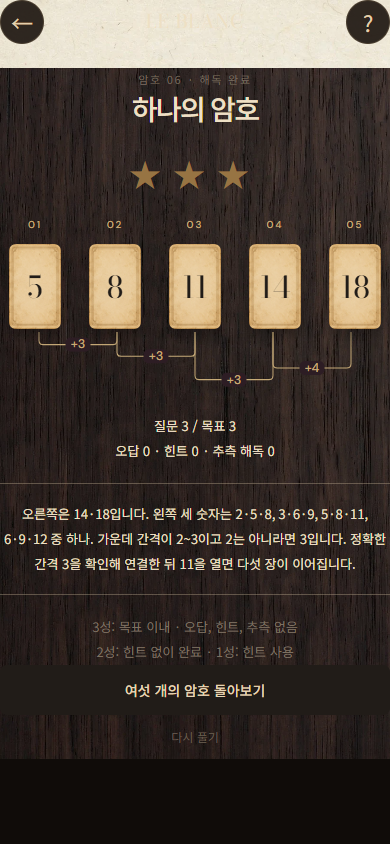
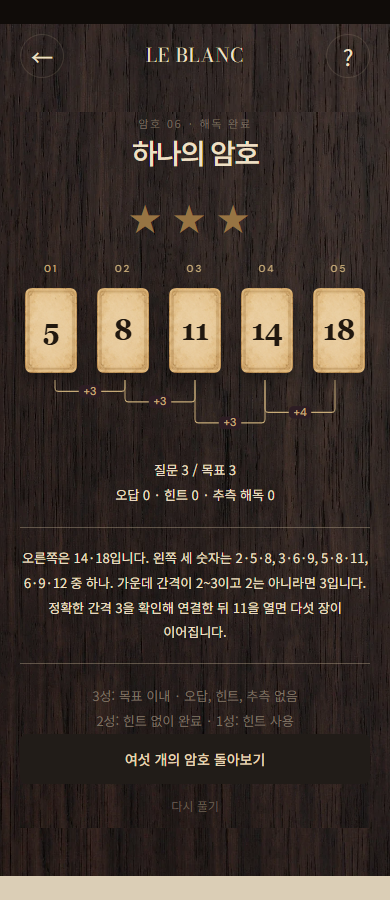
Match result card numerals to in-game print layout

diff --git a/src/components/TileRow.tsx b/src/components/TileRow.tsx
@@ -1,3 +1,4 @@
+import {CARD_FACE,needsOrientationMark} from '../cardFace';
 import { motion } from 'motion/react';
 import { Eye } from 'lucide-react';
 import type { GapConnection, RevelationEvent, VisibleTile } from '../engine/types';
@@ -10,7 +11,7 @@ export default function TileRow({tiles,own=false,selected=[],onSelect,enabled=()
     <span className="tile-index">{String(i+1).padStart(2,'0')}</span>
     <motion.button className={`tile ${t.value===null?'secret':'face'} ${selected.includes(i)?'selected':''} ${own&&t.revealed?'exposed':''}`} aria-label={`${i+1}번 타일, ${t.value===null?'비공개':t.value}${own?(t.revealed?', 상대에게 공개됨':t.value===null?', 가려짐':', 나만 볼 수 있음'):''}`} aria-pressed={onSelect?selected.includes(i):undefined} disabled={!onSelect||!enabled(i)} onClick={()=>onSelect?.(i)} whileTap={onSelect?{scale:.94}:undefined}>
       <motion.span key={`${t.value}-${revealIndex}`} className="tile-inner" initial={revealIndex>=0&&!reduced?{rotateY:180}:false} animate={{rotateY:0}} transition={{duration:.48,delay:revealIndex>=0?revealIndex*.34:0}}>
-       <span className="tile-front">{t.value===null?<Sigil/>:<><span className="tile-corner">{t.value}</span><span className="tile-number">{t.value}</span><span className="tile-flourish">◆</span></>}</span>
+       <span className="tile-front">{t.value===null?<Sigil/>:<><span className="tile-corner">{t.value}</span><svg className="tile-number card-face-number" viewBox={`0 0 ${CARD_FACE.width} ${CARD_FACE.height}`} preserveAspectRatio="none" aria-hidden="true"><text x={CARD_FACE.x} y={CARD_FACE.baseline} textAnchor="middle" style={{fontFamily:CARD_FACE.family,fontWeight:CARD_FACE.weight,fontSize:CARD_FACE.size,fill:CARD_FACE.ink}}>{t.value}</text>{needsOrientationMark(t.value)?<rect {...CARD_FACE.marker} fill={CARD_FACE.ink}/>:null}</svg><span className="tile-flourish">◆</span></>}</span>
        <span className="tile-back"><Sigil/></span>
       </motion.span>
       {own&&t.revealed?<Eye className="exposed-eye" size={11}/>:null}

diff --git a/src/tabletop/Scene.tsx b/src/tabletop/Scene.tsx
@@ -1,3 +1,4 @@
+import {CARD_FACE,needsOrientationMark} from '../cardFace';
 import {useEffect,useMemo,useRef} from 'react';
 import {useFrame,useThree,useLoader} from '@react-three/fiber';
 import * as THREE from 'three';
@@ -10,10 +11,10 @@ export interface HitLayout {central:Hit[];near:Hit[]}
 export interface SceneProps {data:SceneData;peek:boolean;selected:number[];page:number;reduced:boolean;eventId:string;revealIds:string[];onSelect?:(i:number)=>void;onLayout:(hits:HitLayout)=>void;placement:'play'|'tool'|'menu';dealing:boolean;onReady:()=>void}
 function faceTexture(value:number|null,paper:HTMLImageElement){
  if(value===null)return null;
- const canvas=document.createElement('canvas');canvas.width=512;canvas.height=768;const c=canvas.getContext('2d')!;
- c.drawImage(paper,0,0,512,768);
- c.textAlign='center';c.fillStyle='#21180f';c.font='bold 272px Georgia';c.fillText(String(value),256,470);
- if(value===6||value===9)c.fillRect(208,504,96,8);
+ const f=CARD_FACE,canvas=document.createElement('canvas');canvas.width=f.width;canvas.height=f.height;const c=canvas.getContext('2d')!;
+ c.drawImage(paper,0,0,f.width,f.height);
+ c.textAlign='center';c.fillStyle=f.ink;c.font=`${f.weight} ${f.size}px ${f.family}`;c.fillText(String(value),f.x,f.baseline);
+ if(needsOrientationMark(value))c.fillRect(f.marker.x,f.marker.y,f.marker.width,f.marker.height);
  const texture=new THREE.CanvasTexture(canvas);texture.colorSpace=THREE.SRGBColorSpace;texture.anisotropy=4;return texture;
 }
 

diff --git a/src/landscape.css b/src/landscape.css
@@ -111,3 +111,6 @@ html,body,#root,.app,.app-content{min-height:100%;margin:0}.app .ambient{backgro
  .app .menu-utilities{margin-top:4px}
  .app .online-lobby .menu-body{max-height:calc(100dvh - 32px);bottom:12px}
 }
+
+/* Same printed number geometry as the 3D card, including the 6/9 orientation mark. */
+.app .tile .card-face-number{position:absolute;inset:0;width:100%;height:100%;padding:0;letter-spacing:0;font-variation-settings:normal;font-variant-numeric:normal;pointer-events:none}

diff --git a/src/cardFace.ts b/src/cardFace.ts
@@ -1,0 +1,8 @@
+/** Shared print layout for 3D textures and flat result cards. */
+export const CARD_FACE = {
+ width:512, height:768,
+ family:'Georgia', weight:700, size:272, ink:'#21180f',
+ x:256, baseline:470,
+ marker:{x:208,y:504,width:96,height:8},
+} as const;
+export const needsOrientationMark=(value:number)=>value===6||value===9;
